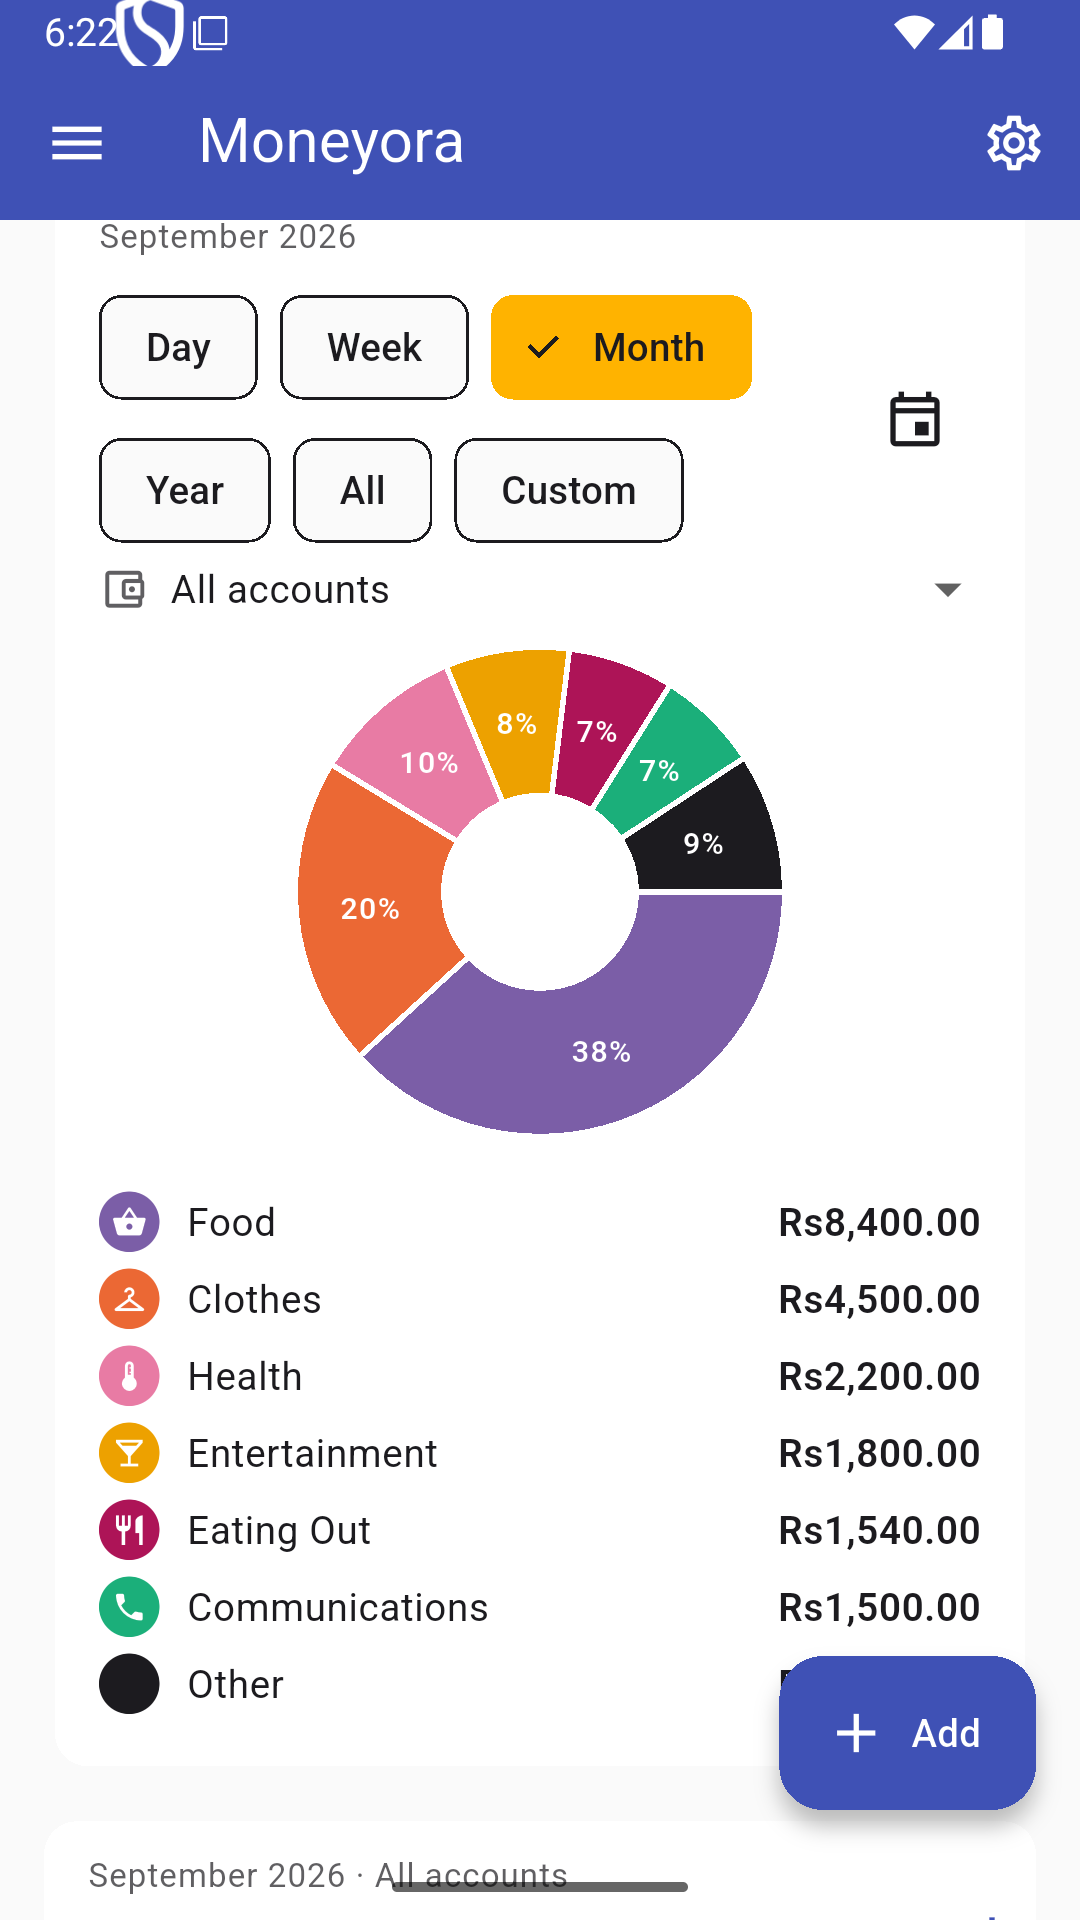
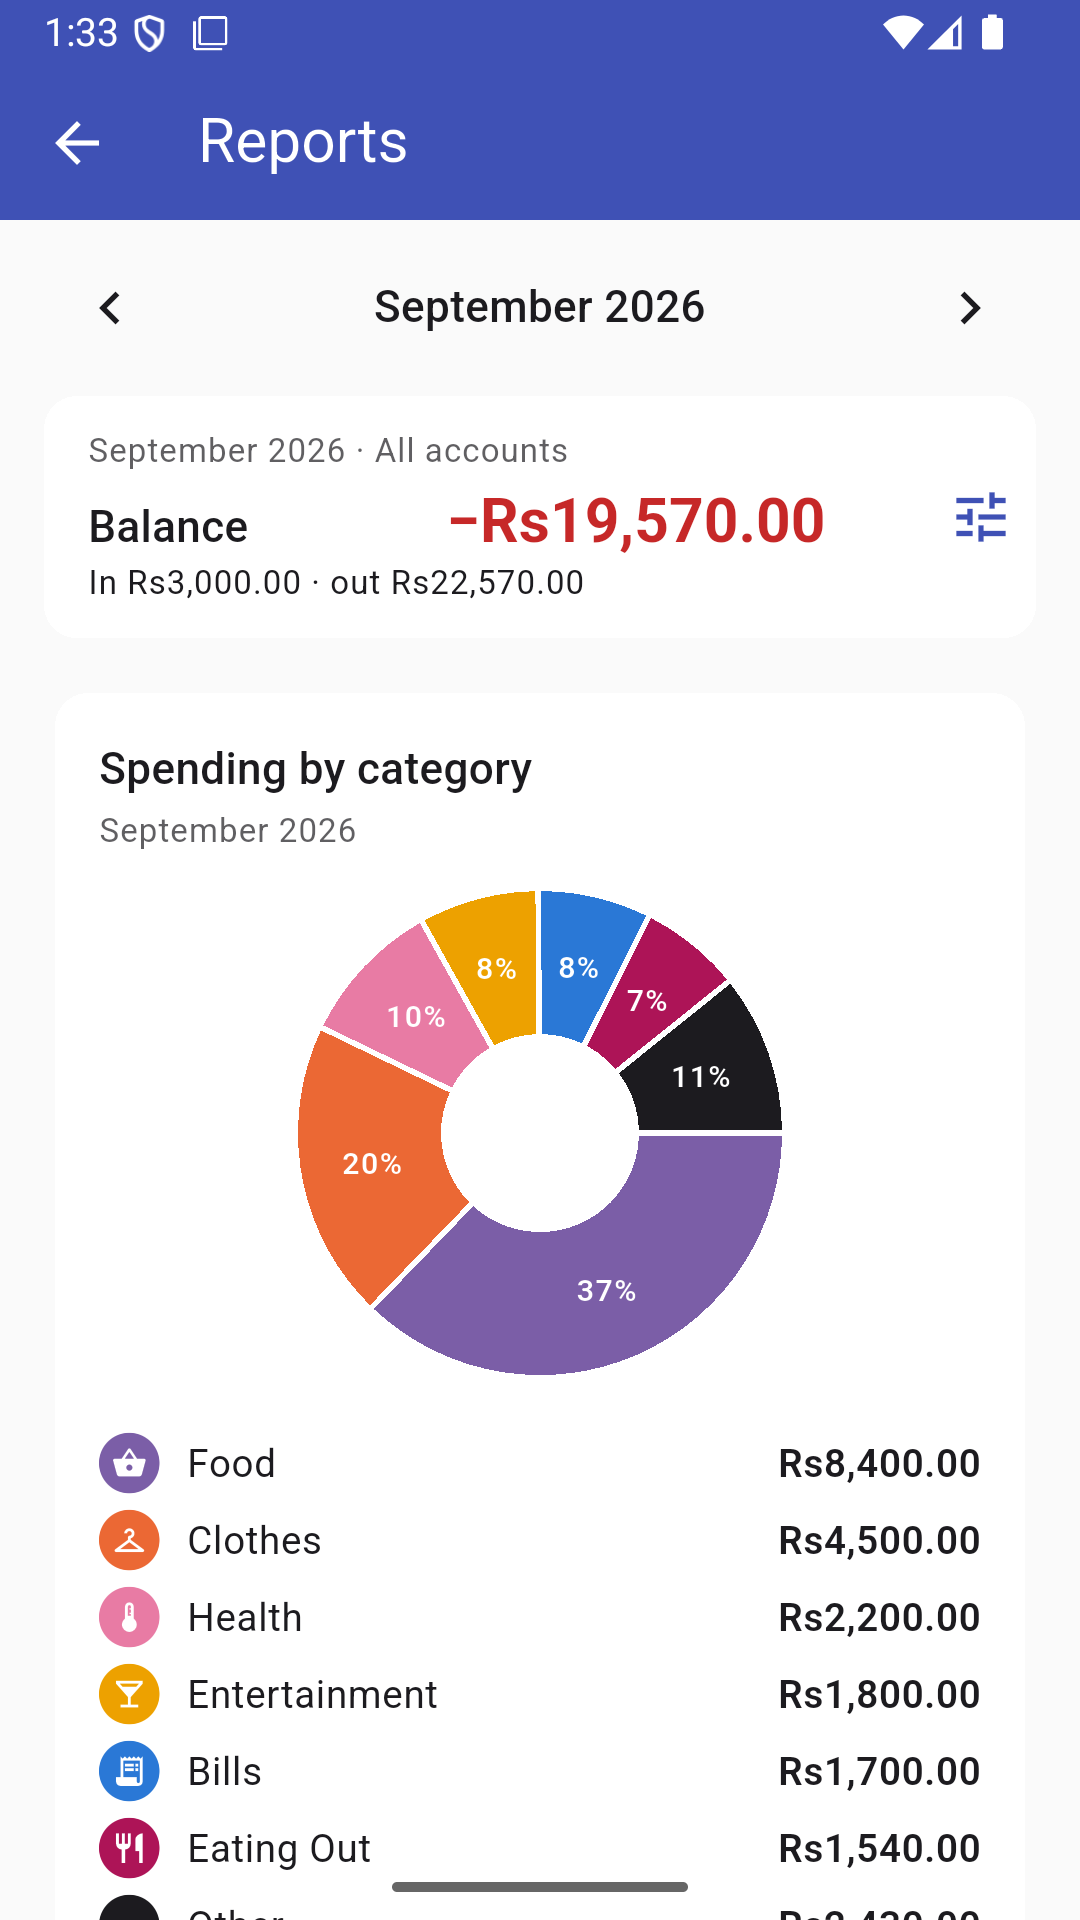
chore(release): version 1.1.0, with every document brought up to it (#180)
1.0.2 was prepared for Ask Moneyora's fix and never tagged. The new home
and entry followed, and together they are a minor release rather than a
patch, so both ship as 1.1.0. The build number goes from 3 to 4, so an
installed 1.0.x takes it as an update.

The README, the store listing, RELEASE.md, ROADMAP.md and HANDOFF.md now
describe the released app. HANDOFF's map of lib/ still described Sprint
1's home and three unbuilt features. The screenshots of home, the list
and Reports are retaken from the 1.1.0 release build, and New expense is
added.

Refs: FR-RPT-001, FR-EXP-001

diff --git a/docs/HANDOFF.md b/docs/HANDOFF.md
@@ -1,13 +1,16 @@
 # Moneyora — Session Handoff
 
-State of the project as of **2026-10-06**, `main` at `3a0b71c`, after **169
-merged pull requests** (#2–#170; #1 was closed unmerged). **Moneyora is
-released**: [1.0.0](https://github.com/SanduniLiyanage/Moneyora/releases/tag/v1.0.0)
+State of the project as of **2026-10-07**, `main` at `9e549ce` plus the
+1.1.0 release PR, after **178 merged pull requests** (#2–#180; #1 and
+#178 were closed unmerged). **Moneyora is released**:
+[1.0.0](https://github.com/SanduniLiyanage/Moneyora/releases/tag/v1.0.0)
 on GitHub Releases on 2026-10-05, after a walk of the release APK fixed
-what only that build could show (#152–#162), and
+what only that build could show (#152–#162);
 [1.0.1](https://github.com/SanduniLiyanage/Moneyora/releases/tag/v1.0.1) on
-2026-10-06 from the first testers' feedback (#164–#170). "What is next"
-below has both. Sprint 10 itself: plans only from the user's own history or built by hand
+2026-10-06 from the first testers' feedback (#164–#170); and
+[1.1.0](https://github.com/SanduniLiyanage/Moneyora/releases/tag/v1.1.0) on
+2026-10-07: Ask Moneyora answering again (#172–#174) and the new home and
+entry (#175–#179). "What is next" below has all three. Sprint 10 itself: plans only from the user's own history or built by hand
 ([E-39](SPEC_ERRATA.md), #137), budget alerts offered on save (#138), the
 bug-fix pass (#136, #138–#140), the user manual and privacy policy
 (#141), the store listing (#143), a balance for the chosen period and
@@ -58,8 +61,8 @@ encrypted photo
 ### The numbers, measured — and the only place they live
 
 Every figure below was produced by running the command beside it on `main`
-at `3a0b71c`, with PR #170 merged; the coverage figure is CI's, from its
-run on `main` at that commit (the last change to `domain/` was #167).
+at `9e549ce`, with PR #179 merged; the coverage figure is CI's, from its
+run on that commit (the last change to `domain/` was #176).
 **This section is the single source of truth for counts.** `README.md` and
 `ARCHITECTURE.md` link here rather than restating them: a number kept in one
 place goes stale once, and a number kept in three places goes stale three
@@ -68,16 +71,24 @@ of date.
 
 | Figure | Value | Command |
 |---|---|---|
-| Tests | **2404 passing** | `flutter test` |
+| Tests | **2462 passing** | `flutter test` |
 | Analyzer | **0 issues** | `flutter analyze` |
 | Layer boundaries | **clean, exit 0** | `bash scripts/check_architecture.sh` |
 | Requirement citations | **clean, exit 0** | `bash scripts/check_citations.sh` |
 | R8 keep rules | **clean, exit 0** — ML Kit's registrar constructors ([E-09](SPEC_ERRATA.md)) | `bash scripts/check_proguard.sh` |
-| Domain line coverage | **91.5%** (2776 of 3034 lines), against a 75% floor (NFR-MNT-002) — measured in CI; `lcov` isn't on this machine | `flutter test --coverage`, then CI's `lcov --extract coverage/lcov.info '*/domain/*'` |
+| Domain line coverage | **91.5%** (2796 of 3055 lines), against a 75% floor (NFR-MNT-002) — measured in CI; `lcov` isn't on this machine | `flutter test --coverage`, then CI's `lcov --extract coverage/lcov.info '*/domain/*'` |
 | Schema | **14 tables, 11 indexes**, at version 6 — unchanged by Sprints 8 to 10 (E-39's hand-built rows reuse `confidence_level` and `is_user_modified`); Sprint 8's backup reads the tables from `sqlite_master` rather than needing any (v2 adds one column, E-33; v3 adds one column and recreates `keyword_dictionary` with its cascade, E-31; v4 adds `exchange_rates` and a transfer column, E-34; v5 two columns, E-35; v6 three, E-37) | `grep -c 'CREATE TABLE\|CREATE INDEX' lib/core/database/migrations/*.dart` — v3's pair is a recreate, not a new table |
-| Dart files | 340 in `lib/`, 178 in `test/` | `find lib -name '*.dart' \| wc -l` |
+| Dart files | 347 in `lib/`, 180 in `test/` | `find lib -name '*.dart' \| wc -l` |
 
-Tests by area: 2375 at `2446339` (PR #162, merged) plus **29 net new**
+Tests by area: 2404 at `3a0b71c` (PR #170, merged) plus **58 net new**
+from #171–#179, each PR's description naming its own. Assertions that
+changed shape rather than growing: the shell tests reach every screen
+through the menu instead of home's tiles; the list's delete tests hold a
+row instead of swiping it; the entry tests record through CHOOSE
+CATEGORY instead of Save; and the period chips' tests use Interval and
+its calendar instead of Custom and Flutter's range picker.
+
+Before that: 2375 at `2446339` (PR #162, merged) plus **29 net new**
 from #164–#170, each PR's description naming its own. One assertion
 changed meaning: `update_allocation_test`'s "refuses the only allocation
 in a plan" became "a plan of one category takes the figure as its total",
@@ -2026,71 +2037,33 @@ See [`COPILOT.md`](COPILOT.md) for what it is scoped to and why.
 
 ```
 lib/
-├── core/
-│   ├── database/
-│   │   ├── migrations/
-│   │   │   ├── v1_initial.dart          13 tables, 11 indexes, errata-corrected
-│   │   │   ├── v2_carry_over.dart       + plan_allocations.carry_over_cents (E-33)
-│   │   │   └── v3_receipt_scanner.dart  + receipt_number; keyword_dictionary
-│   │   │                                recreated with its cascade (E-31)
-│   │   ├── database_change_bus.dart     one "something was written" signal
-│   │   ├── database_helper.dart         SQLCipher open + migration runner
-│   │   ├── database_summary.dart        row counts (SQL lives here, not in DI)
-│   │   ├── encryption_key_store.dart    AES-256 key -> platform keychain
-│   │   └── seed/
-│   │       ├── default_seed.dart        15 expense + 3 income categories
-│   │       ├── dev_seed.dart            >500 synthetic transactions, 24 months
-│   │       └── keyword_seed.dart        200+ keyword -> category rows, re-applied
-│   │                                    on every open when it has grown
-│   ├── errors/          Failure + Exception hierarchies
-│   ├── network/         network_info.dart      — the abstract check
-│   │                    connectivity_network_info.dart — its implementation
-│   ├── ports/           contracts two features share (see ARCHITECTURE §5):
-│   │                    account_reader, account_type, category_reader,
-│   │                    category_writer, expense_writer, income_reader,
-│   │                    monthly_spending_reader, spending_by_category_reader
-│   ├── router/          go_router, 16 routes: 15 real screens, 1 stub
-│   ├── theme/           indigo/amber, contrast-verified light + dark
-│   ├── usecases/        UseCase<T, Params> base
-│   ├── utils/           currency_utils, date_utils, amount_expression
-│   └── widgets/         account_icons.dart — E-26's 25-icon catalogue
+├── core/          database (SQLCipher, migrations v1–v6, seeds), errors,
+│                  network, ports shared between features, router (every
+│                  screen under home), theme, utils, widgets
 ├── features/
-│   ├── accounts/        full slice: panel, form, icons, archive, delete
-│   │                    + account_totals.dart, the entity carrying E-25's
-│   │                    "what the total left out" line
-│   ├── analytics/       full slice: 4 aggregates, both filters, 5 charts on
-│   │                    the home screen. Sprint 4.
-│   ├── categories/      full slice: list/management screen, create-and-edit
-│   │                    form with icon + colour pickers and parent dropdown
-│   ├── copilot/         all three layers. The only http in the application
-│   ├── home/            Sprint 1 proof screen, still the home route
-│   ├── money_plan/      full slice: 4 engine stages, saved plan, wizard,
-│   │                    tracking, overspend responses, list + comparison.
-│   │                    Sprint 5.
-│   ├── receipt_scanner/ full slice: picker + ML Kit seams, parser,
-│   │                    categoriser, review, confirm + learn, history,
-│   │                    re-scan, encrypted photo vault. Sprint 6.
-│   └── transactions/    full slice: keypad entry, list, filter, edit, undo
-│                        + AddExpenses, the ExpenseWriter port's implementation
+│   ├── accounts/        the Accounts section of the menu, form, icons,
+│   │                    archive, delete, totals across currencies
+│   ├── analytics/       aggregates; home's ring, ‹ › and swipe; the left
+│   │                    filter panel and the Interval calendar; Reports
+│   ├── auth/            passcode, lockout, biometrics
+│   ├── backup/          encrypted .mora backup and restore, CSV/PDF export
+│   ├── categories/      list and form, icons, colours, one level of nesting
+│   ├── copilot/         Ask Moneyora: the only http in the application
+│   ├── home/            home and its right-hand menu
+│   ├── money_plan/      the plan engine, wizard, editor, tracking, alerts
+│   ├── receipt_scanner/ ML Kit, parser, categoriser, review, history
+│   ├── settings/        settings, exchange rates, notifications
+│   └── transactions/    entry, list, transfers, recurring rules
 ├── app.dart          MaterialApp.router
 ├── injection.dart    Riverpod providers = the DI container
 └── main.dart         ProviderScope
 ```
 
-**Not started — scaffold directories with zero `.dart` files:** `auth/`,
-`backup/`, `settings/`, plus `core/constants/` and `core/extensions/`. An
-empty directory is *not started*; none of these is in progress. `auth/` and
-`settings/` are Sprint 7's; `backup/` is Sprint 8's. `presentation/widgets`
-is empty in most slices, and that is not a gap: everything the screens need
-lives in `presentation/pages` and the `core/widgets`/`core/theme`
-catalogues, the same shape `accounts/` settled on; `money_plan/` and
-`receipt_scanner/` each hold one shared widget there.
-
-The one route with no screen behind it is `settings`, a stub until
-Sprint 7. The fifteen real ones are `home`, `transactions`, `moneyPlan`,
-`moneyPlanReview`, `activePlan`, `plans`, `comparePlans`, `scanReceipt`,
-`scanReceiptReview`, `receiptHistory`, `copilot`, `transfer`,
-`accountForm`, `categories` and `categoryForm`.
+Every feature directory is built; there are no stubs and no placeholder
+routes. Home is one screen: the ring, the balance, − and +, with the
+period and account in a panel on the left and every other screen in a
+menu on the right (#175–#177). New expense and New income ask one thing
+at a time and record on a tap in the category grid (#179).
 
 Test and coverage figures are in **the table at the top of this file**, which
 is the only place they are written down. CI runs format, analyze, the
@@ -2203,6 +2176,30 @@ The 1.0.1 release APK was checked on the emulator before tagging: the one
 tile, the list with the active plan first, the plan's menu, a one-category
 budget saved without refusal, the system back from a plan to home, and the
 arrows.
+
+**1.1.0 (2026-10-07), `main` at `9e549ce` plus the version.** Two
+changes, and 1.0.2 was never tagged; it shipped inside this release:
+
+- **Ask Moneyora answers again** (#172–#174). Google shut down
+  `gemini-2.0-flash`; it now asks `gemini-3.5-flash`, falls back to the
+  newest Flash model when that one is busy or out of quota, replays
+  Gemini 3's thought signatures, and answers in the base currency.
+  **Change API key** replaces a key Google turned down.
+- **Home and entry, rebuilt** at the owner's request (#175–#179):
+  - the ring of spending with icons and shares, and ‹ › and a swipe for
+    the period;
+  - Balance opening the list, and big − and +;
+  - the filter panel on the left and the menu on the right, with
+    Accounts opening in place;
+  - Reports for the other charts;
+  - a swipe on the list, and deleting by holding a row;
+  - the Interval calendar;
+  - New expense and New income: date, amount bar, note, keypad, then
+    CHOOSE CATEGORY.
+
+The release APK was checked on the emulator before tagging: the ring, the
+list, Reports and New expense, and those screens are the new
+screenshots.
 
 **What is left.** [`RELEASE.md`](RELEASE.md) sets out the accounts:
 

diff --git a/README.md b/README.md
@@ -13,9 +13,9 @@ off.
 [![Flutter](https://img.shields.io/badge/Flutter-3.x-02569B?logo=flutter&logoColor=white)](https://flutter.dev)
 [![Licence: MIT](https://img.shields.io/badge/licence-MIT-blue.svg)](LICENSE)
 
-<img src="store/screenshots/1-home.png" width="240" alt="The home screen: shortcuts to Transactions, Scan Receipt, Transfer, Budget plans, Recurring, Categories and Ask Moneyora, above the spending chart">
-<img src="store/screenshots/3-transactions-by-day.png" width="240" alt="The transaction list grouped by day, with the balance for the chosen period above it">
-<img src="store/screenshots/4-plan-from-your-own-history.png" width="240" alt="Create Money Plan explaining there is not enough history for a suggested plan yet, and offering Build it yourself">
+<img src="store/screenshots/1-home.png" width="240" alt="The home screen: a ring of September's spending with each category's icon and share around it, income and spending in the middle, the balance below, and large minus and plus buttons">
+<img src="store/screenshots/6-new-expense.png" width="240" alt="New expense: the date at the top, Rs2,500.00 in a red amount bar with the Cash account at its left, a note with Repeat, photo and scan icons beside it, the keypad, and CHOOSE CATEGORY">
+<img src="store/screenshots/3-transactions-by-day.png" width="240" alt="The transaction list for September, grouped by day, with the period's arrows and its balance above it">
 
 </div>
 
@@ -85,13 +85,20 @@ phone.
 
 ## Everything else
 
+- **Home** — one screen: a ring of the period's spending with each
+  category's icon and share around it, the balance under it, and big **−**
+  and **+** to record an expense or income. Swipe sideways for the period
+  before or after; the filter button picks an account, a period or any
+  dates.
+- **Recording** — type the amount on a calculator keypad, then tap a
+  category in a grid of icons: that records it.
 - **Accounts** — cash, cards and bank accounts, each with its balance; other
   currencies counted at rates you enter.
 - **Transfers** between your own accounts, which move each account's balance
   without counting as spending.
 - **Recurring** expenses and income, with an optional reminder before each.
 - **Categories** you can add, rename, recolour and nest one level deep.
-- **Charts** — spending by category, income against expenses, trends over
+- **Reports** — spending by category, income against expenses, trends over
   time and a spending calendar, for any period and any account.
 - **Budget plans** — every plan you have kept, the active one first: rename,
   delete, compare two side by side.

diff --git a/docs/RELEASE.md b/docs/RELEASE.md
@@ -19,7 +19,7 @@ and the Samsung Galaxy Store. Google Play ($25, once) and the App Store
 |---|---|---|---|
 | Upload key generated, backed up twice | you, once | 5 minutes | **Done** |
 | Four repository secrets set | you, once | 5 minutes | **Done** |
-| Tag a version and push it | you | the workflow takes ~15 minutes | **Done** — `v1.0.0` (2026-10-05), `v1.0.1` (2026-10-06) |
+| Tag a version and push it | you | the workflow takes ~15 minutes | **Done** — `v1.0.0` (2026-10-05), `v1.0.1` (2026-10-06), `v1.1.0` (2026-10-07) |
 | Galaxy Store seller account | you | free; a day or so | Next |
 | Galaxy Store review | Samsung | several days | |
 | *Later:* Google Play | you + 12 testers | $25 once; **14 days** of closed testing | |
@@ -84,8 +84,8 @@ again, not even to you.
 
 **Each release.**
 
-1. Raise the version in `pubspec.yaml`: `1.0.0+1`, then `1.0.1+2`, and so
-   on. The number after the `+` must go up every time, or phones refuse the
+1. Raise the version in `pubspec.yaml`: `1.0.0+1`, then `1.0.1+2`, then
+   `1.1.0+4` (`1.0.2+3` was never tagged), and so on. The number after the `+` must go up every time, or phones refuse the
    update as a downgrade.
 2. Merge that to `main`, then tag it:
 
@@ -223,8 +223,8 @@ requires it ([E-20](SPEC_ERRATA.md)). Say 15.5 in App Store Connect.
       budget-alert notification.
 - [x] Screenshots from a release build, not a debug one (the debug banner is
       an automatic rejection): `store/screenshots/`, taken 2026-09-28;
-      the home screen and the list retaken from 1.0.1 on 2026-10-06, for
-      the Budget plans tile and the arrows.
+      the home screen, the list and the new expense screen retaken from
+      1.1.0 on 2026-10-07, for the new home and entry.
 - [x] The privacy policy at a public URL: the repository is public, so the
       file's GitHub page is one.
 - [x] A contact address in [`PRIVACY.md`](PRIVACY.md) and

diff --git a/docs/store/LISTING.md b/docs/store/LISTING.md
@@ -40,10 +40,17 @@ line, learns from your corrections, and keeps the photo encrypted beside
 the expenses.
 
 **See where the money went**
+- Home is one screen: a ring of this month's spending, each category's
+  icon and share around it, and big − and + to record an expense or income
+- Swipe sideways for the month before or after, or pick any dates
 - Every day's spending at a glance, grouped by day with its total
 - Spending by category, income against expenses, trends over time, and a
   calendar of your spending days
 - Filter by day, week, month, year or any dates, and by account
+
+**Recording takes seconds**
+Type the amount on the calculator keypad, then tap a category from a grid
+of icons. That's it: the expense is recorded.
 
 **Everything else you'd expect**
 - Accounts in any currency, with transfers between them
@@ -84,6 +91,7 @@ Answers that follow from `PRIVACY.md`:
 
 Phone screenshots (at least 2, 16:9 or 9:16) are taken on the emulator from
 data typed in by hand, never the sample data ([E-39](../SPEC_ERRATA.md)):
-home with its shortcuts, the list by day, a suggested plan with its
-confidence labels, the plan editor, a receipt under review, and an
-overspend notification. A 1024×500 feature graphic goes with them.
+home with its spending ring, New expense with its keypad, the list by
+day, a suggested plan with its confidence labels, the plan editor, a
+receipt under review, and an overspend notification. A 1024×500
+feature graphic goes with them.

diff --git a/docs/ROADMAP.md b/docs/ROADMAP.md
@@ -964,7 +964,7 @@ charts, the plan and the budgets still never see a transfer — an
 [E-02](SPEC_ERRATA.md) addendum says why this is that entry's own
 account-balance rule rather than an exception to it.
 
-## After release — 1.0.0 and 1.0.1
+## After release — 1.0.0 to 1.1.0
 
 **1.0.0** was published on GitHub Releases on 2026-10-05, signed with the
 owner's upload key, after a walk of the release APK that fixed what only a
@@ -988,12 +988,17 @@ from their own phones:
   budget can be changed.
 - **How an installed copy updates**, in [`RELEASE.md`](RELEASE.md) (#169).
 
-**1.0.2** makes Ask Moneyora answer again. Google shut down
+**1.1.0**, published 2026-10-07, carries two changes. Version 1.0.2 was
+prepared for the first and never tagged; it shipped inside 1.1.0.
+
+The first makes Ask Moneyora answer again. Google shut down
 `gemini-2.0-flash` on 2026-06-01, so every question to 1.0.0 and 1.0.1
 failed. It now asks `gemini-3.5-flash` and falls back to the newest Flash
 model when that one is busy or out of quota. It replays Gemini 3's thought
 signatures and answers in the base currency (#172, #174). **Change API
 key** replaces a key that Google turned down.
+
+The second is the new home and entry, below.
 
 ### Home and entry, rebuilt — done (#175 to #177, #179)
 
